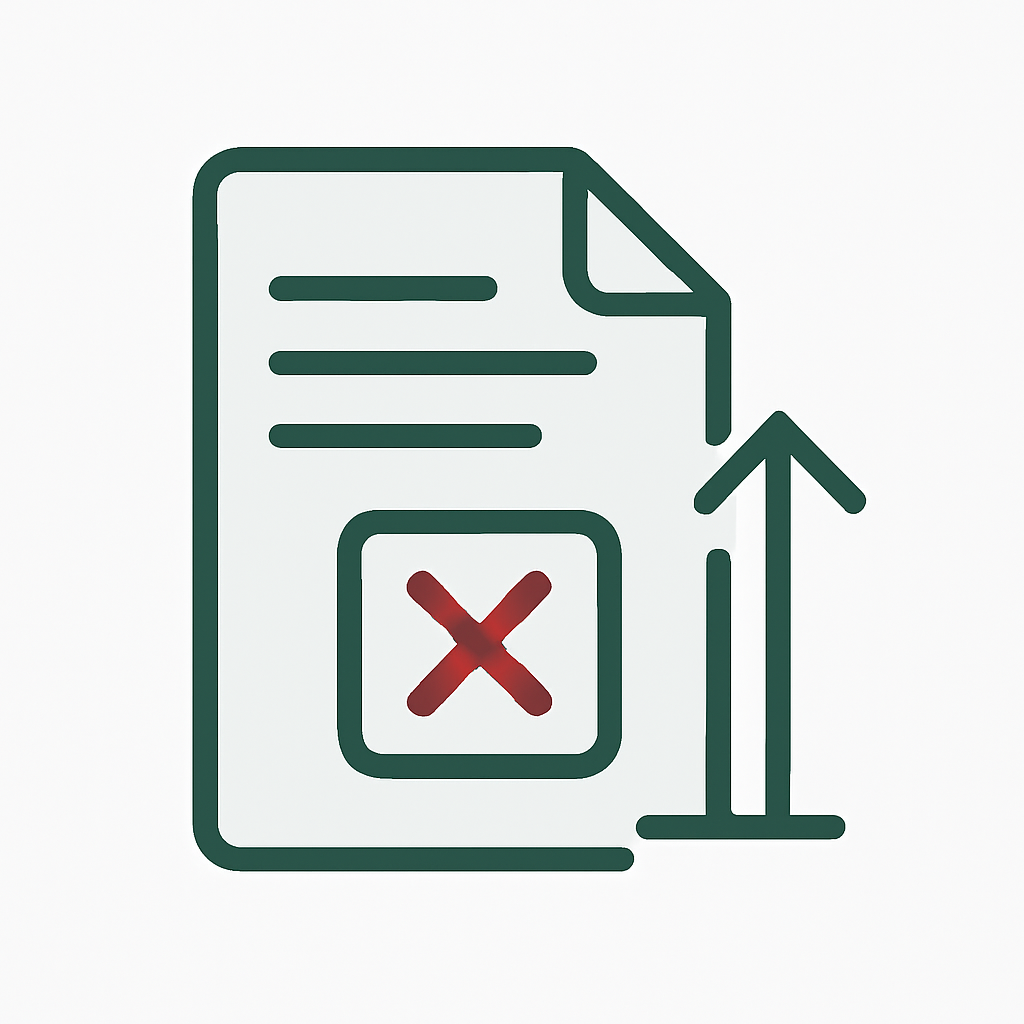
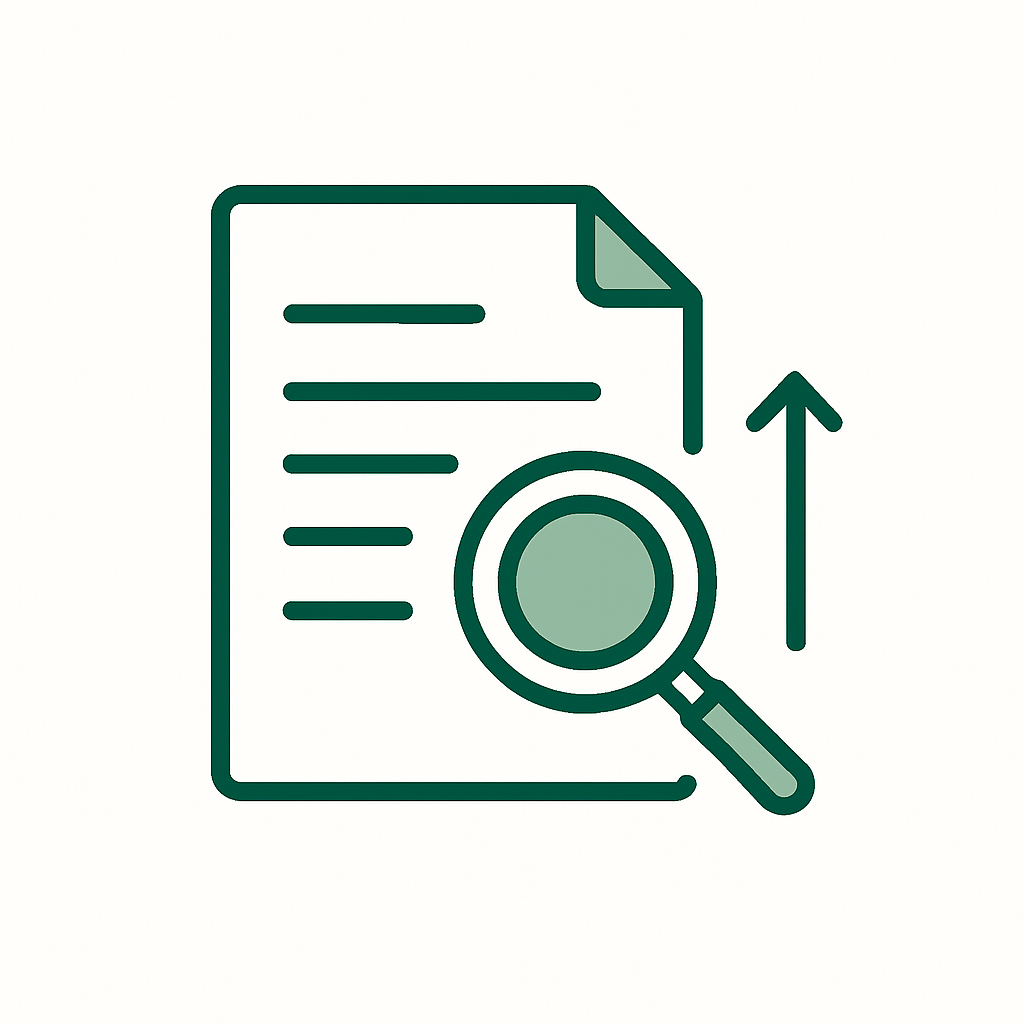
feat: enhance blog post clarity and structure
Improved paragraph formatting and added periods for better readability. Updated headings for consistency.

Changed region(s): [[0.1875, 0.125, 0.8438, 0.875]]

diff --git a/app/blog/[slug]/page.tsx b/app/blog/[slug]/page.tsx
@@ -29,7 +29,7 @@ const blogPosts: Record<string, {
           Here's how to handle a denied supplement professionally, figure out why it happened, and push for a fair reconsideration without burning the relationship.
         </p>
 
-        <h2>Don't React — Read</h2>
+        <h2>Don't React. Read First.</h2>
         <p>
           The first mistake contractors make is firing back an angry email the moment a denial lands. Instead, slow down and read the denial carefully. Carriers are required to explain why something was denied, and that explanation tells you exactly what you're up against. The reason behind the denial determines your entire next move, so understand it before you respond.
         </p>
@@ -39,11 +39,11 @@ const blogPosts: Record<string, {
           Most supplement denials fall into a handful of categories. Knowing which one you're dealing with tells you how to respond:
         </p>
         <ul>
-          <li><strong>Insufficient documentation</strong> — the adjuster didn't see enough photos, measurements, or evidence to justify the item.</li>
-          <li><strong>Disagreement on scope</strong> — the adjuster doesn't believe the work is necessary or related to the covered loss.</li>
-          <li><strong>Pricing disputes</strong> — the adjuster agrees the item is needed but disputes the rate or quantity.</li>
-          <li><strong>Policy or coverage limits</strong> — the item genuinely isn't covered under the policy or falls outside the claim.</li>
-          <li><strong>Code interpretation</strong> — the adjuster disputes whether a building code actually requires the work.</li>
+          <li><strong>Insufficient documentation.</strong> The adjuster didn't see enough photos, measurements, or evidence to justify the item.</li>
+          <li><strong>Disagreement on scope.</strong> The adjuster doesn't believe the work is necessary or related to the covered loss.</li>
+          <li><strong>Pricing disputes.</strong> The adjuster agrees the item is needed but disputes the rate or quantity.</li>
+          <li><strong>Policy or coverage limits.</strong> The item genuinely isn't covered under the policy or falls outside the claim.</li>
+          <li><strong>Code interpretation.</strong> The adjuster disputes whether a building code actually requires the work.</li>
         </ul>
         <p>
           A documentation problem is the easiest to fix. A true coverage exclusion is the hardest. Most denials sit somewhere in between, which means there's room to make your case.
@@ -61,7 +61,7 @@ const blogPosts: Record<string, {
           Once you know the reason, build a response that directly addresses it. If the denial cited insufficient documentation, send the missing photos, measurements, or moisture readings. If it's a scope disagreement, explain why the work is necessary and tie it back to the original loss. If it's a code dispute, cite the specific section of the local building code and attach it.
         </p>
         <p>
-          Keep the tone factual and professional. You're not accusing the adjuster of anything — you're giving them what they need to approve the item. Every point you make should be backed by something they can verify.
+          Keep the tone factual and professional. You're not accusing the adjuster of anything. You're giving them what they need to approve the item. Every point you make should be backed by something they can verify.
         </p>
 
         <h2>Put Your Reconsideration Request in Writing</h2>
@@ -74,18 +74,18 @@ const blogPosts: Record<string, {
 
         <h2>Know When and How to Escalate</h2>
         <p>
-          If you've provided solid evidence and the adjuster still won't budge, it may be time to escalate. Escalation isn't about going over someone's head out of spite — it's about getting a fresh set of eyes on a claim that's stuck.
+          If you've provided solid evidence and the adjuster still won't budge, it may be time to escalate. Escalation isn't about going over someone's head out of spite. It's about getting a fresh set of eyes on a claim that's stuck.
         </p>
         <ul>
-          <li><strong>Request a supervisor or re-inspection</strong> — ask the carrier to have a supervisor review the file or send a different adjuster to re-inspect.</li>
-          <li><strong>Invoke the appraisal clause</strong> — most policies include an appraisal process for resolving disagreements on the amount of loss. This can break a stalemate without litigation.</li>
-          <li><strong>Encourage the homeowner to engage</strong> — it's the policyholder's claim, and a call from the insured carries weight a contractor's email sometimes doesn't.</li>
+          <li><strong>Request a supervisor or re-inspection.</strong> Ask the carrier to have a supervisor review the file or send a different adjuster to re-inspect.</li>
+          <li><strong>Invoke the appraisal clause.</strong> Most policies include an appraisal process for resolving disagreements on the amount of loss. This can break a stalemate without litigation.</li>
+          <li><strong>Encourage the homeowner to engage.</strong> It's the policyholder's claim, and a call from the insured carries weight a contractor's email sometimes doesn't.</li>
         </ul>
         <p>
           Escalate in steps. Exhaust the straightforward options before moving to formal processes, and document each one.
         </p>
 
-        <h2>Stay Professional — You'll See This Adjuster Again</h2>
+        <h2>Stay Professional. You'll See This Adjuster Again.</h2>
         <p>
           It's easy to treat a denial as a fight, but the carriers and adjusters you work with today are the same ones you'll work with on the next storm. A reputation for being thorough, fair, and professional gets your future supplements taken seriously. A reputation for being combative slows everything down.
         </p>
